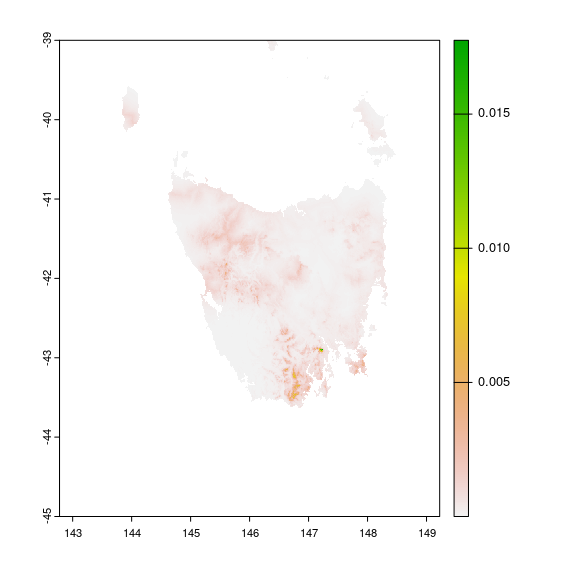
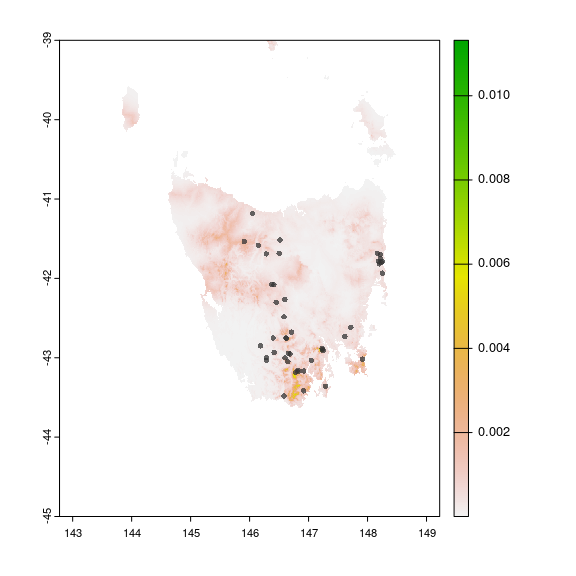
update to readme

diff --git a/README.md b/README.md
@@ -74,8 +74,7 @@ plot(ppmdata1)
 Once the `ppmData` object has been set up it is quiet easy to fit a
 point process model in R. You can use something like `glm`, `gam` or
 even convert the `ppmData` object to work directly with `spatstat::ppm`.
-
-Here is a brief example of how you might fit a ppm using `glm`.
+Here is a brief example of how you might fit a ppm using `glm`:
 
 ``` r
 ppp <- ppmdata1$ppmData
@@ -97,6 +96,7 @@ pred <- predict(covariates,
                 ft.ppm,
                 type="response")
 plot(pred*prod(res(pred))) # scale response by area of cell.
+points(presences[!duplicated(presences),1:2],pch=16,cex=0.75,col=gray(0.2,0.75))
 ```
 
 ![](README_files/figure-gfm/unnamed-chunk-4-1.png)<!-- -->
